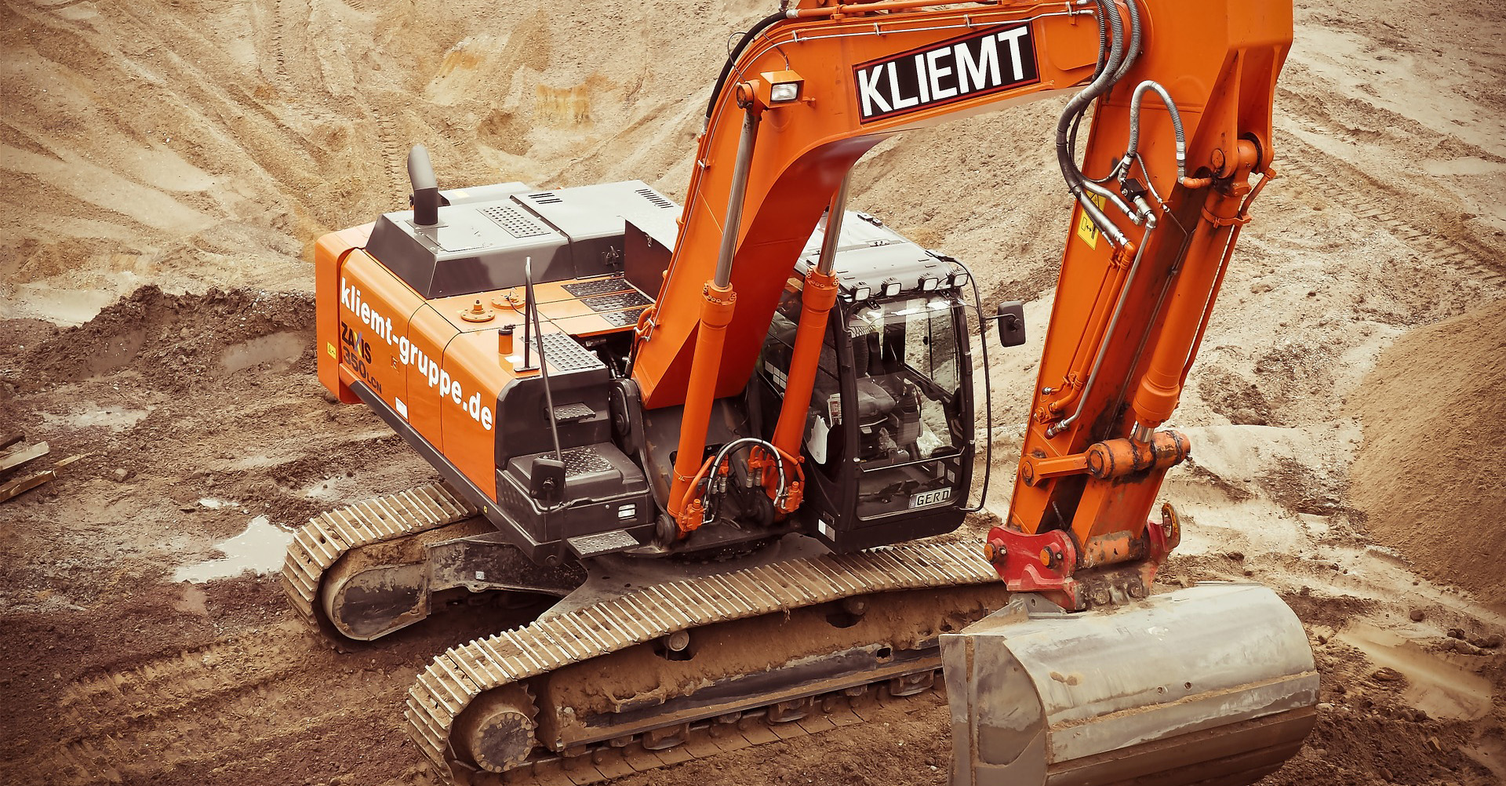
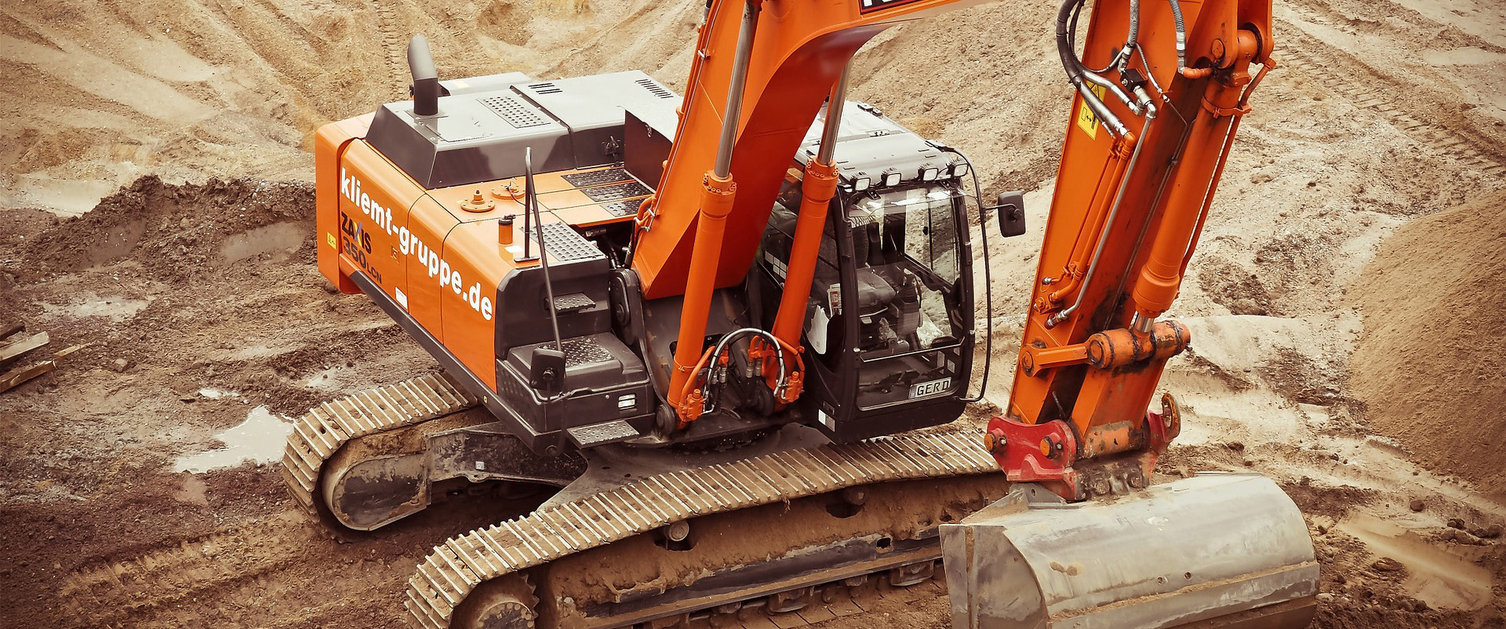
modficando index

diff --git a/index.html b/index.html
@@ -9,68 +9,67 @@
     <title>CANTERAS RUIZ</title>
   </head>
   <body>
-      <nav class="navbar navbar-expand-lg navV navbar-light justify-content-between ">
-        <div>
-        <a class="navbar-brand" href="index.html"><h1>CANTERAS RUIZ</h1></a>
-        <button class="navbar-toggler" type="button" data-toggle="collapse" data-target="#navbarNav" aria-controls="navbarNav" aria-expanded="false" aria-label="Toggle navigation">
-          <span class="navbar-toggler-icon"></span>
-        </button>
-      </div>
-      <div>
-        <div class="collapse navbar-collapse" id="navbarNav">
-          <ul class="navbar-nav">
+    <nav class="navbar navbar-expand-lg navbar-light bg-light fixed-top">
+      <a class="navbar-brand" href="#">CANTERAS RUIZ</a>
+    <button class="navbar-toggler" type="button" data-toggle="collapse" data-target="#navbarSupportedContent" aria-controls="navbarSupportedContent" aria-expanded="false" aria-label="Toggle navigation">
+      <span class="navbar-toggler-icon"></span>
+    </button>
+  
+      <div class="collapse navbar-collapse" id="navbarSupportedContent">
+          <ul class="navbar-nav ml-auto">
             <li class="nav-item active">
-              <a class="nav-link" href="pags/productos.html">productos<span class="sr-only">(current)</span></a>
+              <a class="nav-link" href="#">productos <span class="sr-only">(current)</span></a>
             </li>
             <li class="nav-item">
-              <a class="nav-link" href="pags/nosotros.html">nosotros</a>
+              <a class="nav-link" href="#">nosotros</a>
             </li>
-            <li class="nav-item">
-              <a class="nav-link" href="pags/contacto.html">contacto</a>
+              <li class="nav-item">
+              <a class="nav-link" href="#">contacto</a>
             </li>
-          </ul>
-        </div>
       </div>
-      </nav>
-
-    <div id="carouselExampleControls" class="carousel slide " data-ride="carousel">
-      <div class="carousel-inner">
-        <div class="carousel-item active">
-          <img src="media/img1.jpg" class="d-block w-100" alt="imagen camion">
-        </div>
-        <div class="carousel-item">
-          <img src="media/img2.jpg" class="d-block w-100" alt="imagen camion">
-        </div>
-        <div class="carousel-item">
-          <img src="media/img3.jpg" class="d-block w-100" alt="imagen camion">
-        </div>
+  </nav>
+  <div id="carouselExampleCaptions" class="carousel slide mt-5" data-ride="carousel">
+    <ol class="carousel-indicators">
+      <li data-target="#carouselExampleCaptions" data-slide-to="0" class="active"></li>
+      <li data-target="#carouselExampleCaptions" data-slide-to="1"></li>
+      <li data-target="#carouselExampleCaptions" data-slide-to="2"></li>
+    </ol>
+    <div class="carousel-inner">
+      <div class="carousel-item active">
+        <img src="media/img1.jpg" class="d-block w-100" alt="...">
+  
       </div>
-      <a class="carousel-control-prev" href="#carouselExampleControls" role="button" data-slide="prev">
-        <span class="carousel-control-prev-icon" aria-hidden="true"></span>
-        <span class="sr-only">anterior</span>
-      </a>
-      <a class="carousel-control-next" href="#carouselExampleControls" role="button" data-slide="next">
-        <span class="carousel-control-next-icon" aria-hidden="true"></span>
-        <span class="sr-only">siguiente</span>
-      </a>
-    </div>
-    <div class="container text-center">
-      <div class="row">
-        <div class="col-sm">
-      <h2>materiales de construccion</h2>
-      <p>
-       Lorem ipsum dolor sit amet consectetur adipisicing elit. Magni beatae nam officia inventore, porro delectus culpa! Hic ab necessitatibus exercitationem possimus ullam quod sint sed, reprehenderit quae cupiditate nobis ratione.
-      </p>
-      <button type="button" class="btn btn-lg botonS">productos</button>
-      <button type="button" class="btn btn-lg botonS">contacto</button>
-        </div>
+      <div class="carousel-item">
+        <img src="media/img2.jpg" class="d-block w-100" alt="...">
+      
+      </div>
+      <div class="carousel-item">
+        <img src="media/img3.jpg" class="d-block w-100" alt="...">
       </div>
     </div>
+    <a class="carousel-control-prev" href="#carouselExampleCaptions" role="button" data-slide="prev">
+      <span class="carousel-control-prev-icon" aria-hidden="true"></span>
+      <span class="sr-only">anterior</span>
+    </a>
+    <a class="carousel-control-next" href="#carouselExampleCaptions" role="button" data-slide="next">
+      <span class="carousel-control-next-icon" aria-hidden="true"></span>
+      <span class="sr-only">siguiente</span>
+    </a>
+  </div>
+  
+   <section class="mt-5 text-center">
+      <div class="container">
+        <h1>canteras ruiz</h1>
+        <p class="lead text-muted">aridos para construccion de la mejor calidad </p>
+        <p>
+          <a href="#" class="btn btn-light my-2 btn-lg">ver productos</a>
+          <a href="#" class=" btn btn-light my-2 btn-lg">contactanos</a>
+        </p>
+      </div>
+    </section>
 
 
-
-
-
+   
 
 
 

diff --git a/pags/productos.html b/pags/productos.html
@@ -5,11 +5,11 @@
     <meta name="viewport" content="width=device-width, initial-scale=1, shrink-to-fit=no">
     <meta name="description" content="Canteras Ruiz - matriales para construccion de alta calidad">
     <link rel="stylesheet" href="https://cdn.jsdelivr.net/npm/bootstrap@4.6.0/dist/css/bootstrap.min.css" integrity="sha384-B0vP5xmATw1+K9KRQjQERJvTumQW0nPEzvF6L/Z6nronJ3oUOFUFpCjEUQouq2+l" crossorigin="anonymous">
-
+    <link href="../estilos/estilos.css" rel="stylesheet" type="text/css">
     <title>materiales de construccion</title>
   </head>
   <body>
-<nav class="navbar navbar-expand-lg">
+<nav class="navbar navbar-expand-lg navV navbar-light justify-content-between">
     <a class="navbar-brand" href="../index.html"><h1>CANTERAS RUIZ</h1></a>
     <button class="navbar-toggler" type="button" data-toggle="collapse" data-target="#navbarNav" aria-controls="navbarNav" aria-expanded="false" aria-label="Toggle navigation">
       <span class="navbar-toggler-icon"></span>

diff --git a/pags/contacto.html b/pags/contacto.html
@@ -5,6 +5,7 @@
     <meta name="viewport" content="width=device-width, initial-scale=1, shrink-to-fit=no">
     <meta name="description" content="Canteras Ruiz - datos de contacto -formulario de contacto">
     <link rel="stylesheet" href="https://cdn.jsdelivr.net/npm/bootstrap@4.6.0/dist/css/bootstrap.min.css" integrity="sha384-B0vP5xmATw1+K9KRQjQERJvTumQW0nPEzvF6L/Z6nronJ3oUOFUFpCjEUQouq2+l" crossorigin="anonymous">
+    <link href="../estilos/estilos.css" rel="stylesheet" type="text/css">
 
     <title>contactate con Canteras Ruiz</title>
   </head>

diff --git a/pags/nosotros.html b/pags/nosotros.html
@@ -5,6 +5,7 @@
     <meta name="viewport" content="width=device-width, initial-scale=1, shrink-to-fit=no">
     <meta name="description" content="Canteras Ruiz - ¿quienes somos? - nuestros objetivos">
     <link rel="stylesheet" href="https://cdn.jsdelivr.net/npm/bootstrap@4.6.0/dist/css/bootstrap.min.css" integrity="sha384-B0vP5xmATw1+K9KRQjQERJvTumQW0nPEzvF6L/Z6nronJ3oUOFUFpCjEUQouq2+l" crossorigin="anonymous">
+    <link href="../estilos/estilos.css" rel="stylesheet" type="text/css">
 
     <title>¿quien es Canteras Ruiz?</title>
   </head>

diff --git a/estilos/estilos.css b/estilos/estilos.css
@@ -1,7 +1,7 @@
 
 img{
     width: 100%;
-    height: 1000px;
+    height: 300px;
     background-position: center;
     background-size: cover;
 }
